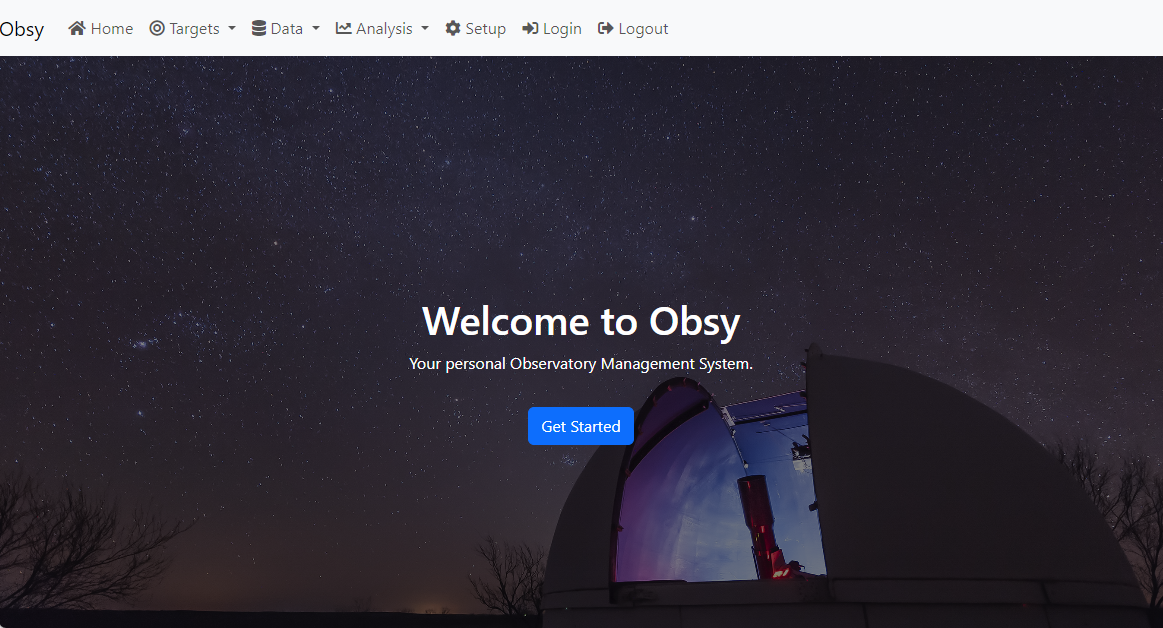
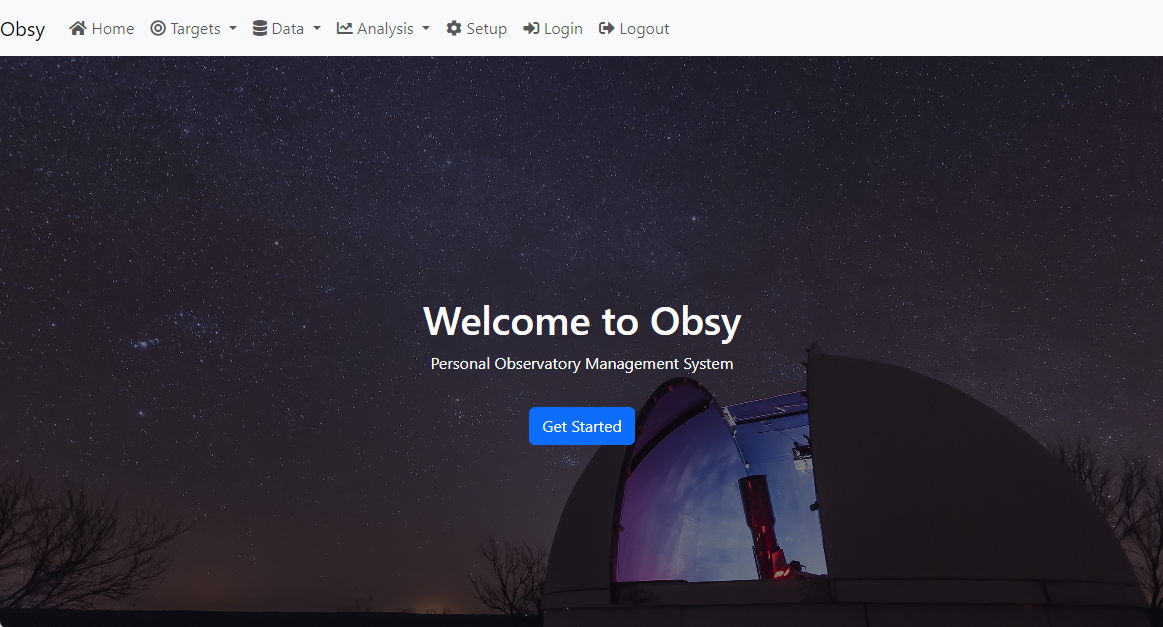
New cover image

diff --git a/mockup/index.html b/mockup/index.html
@@ -76,7 +76,7 @@
     <div class="hero-section">
         <div class="container text-center">
             <h1>Welcome to Obsy</h1>
-            <p>Your personal Observatory Management System.</p>
+            <p>Personal Observatory Management System</p>
             <a href="#" class="btn btn-primary mt-3">Get Started</a>
         </div>
     </div>

diff --git a/README.md b/README.md
@@ -1,4 +1,4 @@
-# OBSY Your Personal Observatory Management System
+# OBSY Personal Observatory Management System
 ![](github-cover.png)
 OBSY is an Open Source observatory management system intended for amateur astronomers who want to automate data collection in their observatories. The system forms a meta layer over the KStars/EKOS imaging and telescope control system, 
 feeding nightly schedules to the EKOS Scheduler and capturing the results. 
